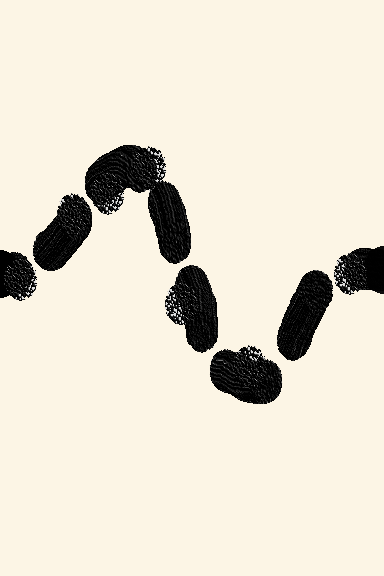
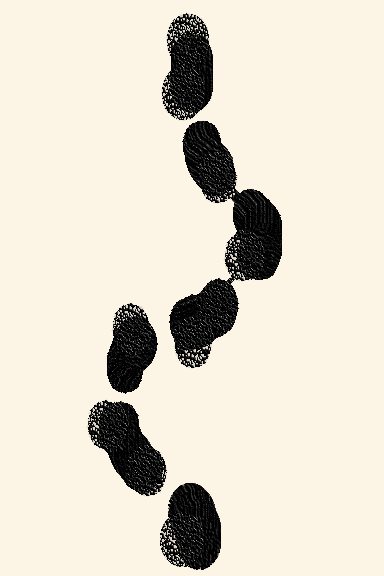
change xp/proj aesthetic

Changed region(s): [[0.0, 0.0, 1.0, 0.7188], [0.2188, 0.5312, 0.5938, 1.0]]

diff --git a/index.html b/index.html
@@ -125,8 +125,6 @@
       </table>
     </div>
 
-    <div class="small-buffer-zone"></div>
-
     <div class="projects-splash" id="projects">
       <div class="left-column">
         <div class="section-header">
@@ -141,10 +139,21 @@
       <div class="item-carousel">
         <div class="item-wrapper-1" onclick="window.open('https://devpost.com/software/cask','mywindow');">
           <div class="item-1">
-            <img class="item-cover" src="https://upload.wikimedia.org/wikipedia/commons/thumb/4/49/A_black_image.jpg/640px-A_black_image.jpg"></img>
+            <!-- <img class="item-cover" src="https://upload.wikimedia.org/wikipedia/commons/thumb/4/49/A_black_image.jpg/640px-A_black_image.jpg"></img> -->
             <div class="item-text">
               <h3 class="item-title">Cask</h3>
-              <p class="item-descr">Cask is an Marketplace for Creatives that mints social media posts as NFTs. It won Best Design at the 2022 Cornell Fintech Club Hackathon.</p>
+              <p class="item-descr">Cask is a Marketplace for Creatives that lets you monetize your content by automatically minting your digital presence as NFTs. <br>
+                <table>
+                  <tr>
+                    <td class="award-label"><b>Awards: </b></td>
+                    <td>Best Design</td>
+                  </tr>
+                  <tr>
+                    <td class="award-label">&nbsp;</td>
+                    <td>@ Cornell Fintech 2022</td>
+                  </tr>
+                </table> 
+              </p>
             </div>
             <div class="item-tech">
               <span>Figma</span>
@@ -153,27 +162,38 @@
         </div>
         <div class="item-wrapper-1">
           <div class="item-1" onclick="window.open('https://modulusedu.com/','mywindow');">
-            <img class="item-cover" src="https://htmlcolorcodes.com/assets/images/colors/navy-blue-color-solid-background-1920x1080.png"></img>
+            <!-- <img class="item-cover" src="https://htmlcolorcodes.com/assets/images/colors/navy-blue-color-solid-background-1920x1080.png"></img> -->
             <div class="item-text">
               <h3 class="item-title">Modulus</h3>
-              <p class="item-descr">Modulus is a peer-to-peer LMS built for nonprofits and tutors. It won Best Educational Impact at the Teens Take on COVID Hackathon in 2020.</p>
+              <p class="item-descr">Modulus is a peer-to-peer e-learning platform built for remote nonprofits and tutors in non-traditional classroom settings. 
+                <table>
+                  <tr>
+                    <td class="award-label"><b>Awards: </b></td>
+                    <td>Best Educational Impact</td>
+                  </tr>
+                  <tr>
+                    <td class="award-label">&nbsp;</td>
+                    <td>@ Teens Take on COVID</td>
+                  </tr>
+                </table> 
+              </p>
             </div>
             <div class="item-tech">
               <span>React.js</span><span>Firebase</span>
             </div>
           </div>
         </div>
-        <div class="item-wrapper-1"><div class="item-2" style="visibility: hidden;"></div></div>
-        <div class="item-wrapper-1"><div class="item-2" style="visibility: hidden;"></div></div>
       </div>
+      <div class="small-buffer-zone"></div>
     </div>
 
-    <div class="large-buffer-zone"></div>
+    
 
-    <div class="experience-splash" id="experience">
+    <div class="experience-splash">
+      <div class="small-buffer-zone"></div>
       <div class="left-column">
-        <div class="section-header">
-          <h1 class="projects-header">Experience</h1>
+        <div class="section-header" id="experience">
+          <h1 class="experience-header">Experience</h1>
           <div class="animatron-jail">
             <div class="animatron-2">
               <img width="100px" src="chineseship.png" />
@@ -182,43 +202,67 @@
         </div>
       </div>
       <div class="item-carousel">
-        <div class="item-wrapper-2">
-          <div class="item-2">
-            <img class="item-cover" src=" https://t4.ftcdn.net/jpg/03/29/19/15/360_F_329191596_tRQiV7LZjTZtuPM09QyOS09HV1D9VimE.jpg"></img>
+        <div class="item-wrapper-1">
+          <div class="item-1">
+            <!-- <img class="item-cover" src=" https://t4.ftcdn.net/jpg/03/29/19/15/360_F_329191596_tRQiV7LZjTZtuPM09QyOS09HV1D9VimE.jpg"></img> -->
             <div class="item-text">
               <h3 class="item-title">WaveLab Global</h3>
-              <p class="item-descr"><b>Summer Intern</b><br><i>June 2019 - August 2019</i><br><br>Developed program to recover misconfigured network devices.</p>
+              <p class="item-descr"><b>Summer Intern</b><br><i>June 2019 - August 2019</i><br><br>
+                Led development of a graphical Java program to recover misconfigured Ubuntu devices on a network using a custom UDP broadcast schema.</p>
             </div>
             <div class="item-tech">
               <span>Java</span><span>TCP/IP</span>
             </div>
           </div>
         </div>
-        <div class="item-wrapper-2">
-          <div class="item-2">
-            <img class="item-cover" src="https://wallpaperaccess.com/full/1092732.jpg"></img>
+        <div class="item-wrapper-1">
+          <div class="item-1">
+            <!-- <img class="item-cover" src="https://wallpaperaccess.com/full/1092732.jpg"></img> -->
             <div class="item-text">
               <h3 class="item-title">Tecmend</h3>
-              <p class="item-descr"><b>Part-Time Software Engineer</b><br><i>March 2021 - September 2021</i><br><br>Created full-stack integrations for various corporate clients.</p>
+              <p class="item-descr"><b>Part-Time Software Engineer</b><br><i>March 2021 - September 2021</i><br><br>
+                Worked primarily in front-end development to build custom integration solutions for corporate clients involving APIs for HubSpot, WordPress, Intuit Quickbooks.
             </div>
             <div class="item-tech">
               <span>React</span><span>SQL</span><span>APIs</span>
             </div>
           </div>
         </div>
-        <div class="item-wrapper-2">
-          <div class="item-2">
-            <img class="item-cover" src="https://kovifabrics.com/img/products/VI-CORIS7291.JPG"></img>
+        <div class="item-wrapper-1">
+          <div class="item-1">
+            <!-- <img class="item-cover" src="https://kovifabrics.com/img/products/VI-CORIS7291.JPG"></img> -->
             <div class="item-text">
               <h3 class="item-title">Cornell DTI</h3>
-              <p class="item-descr"><b>Developer</b>   <i>2021 - 2022</i><br><b>Technical PM</b> <i>2022 - 2023</i><br><br>Led development of ClubView, a student organization platform.</p>
+              <p class="item-descr">
+                <table>
+                  <tr>
+                    <td label="position-label">
+                      <b>2021 - 2022</b>
+                    </td>
+                    <td>&nbsp;</td>
+                    <td>
+                      <i>Developer</i>
+                    </td>
+                  </tr>
+                  <tr>
+                    <td label="position-label">
+                      <b>2022 - 2023</b>
+                    </td>
+                    <td>&nbsp;</td>
+                    <td>
+                      <i>Technical PM</i>
+                    </td>
+                  </tr>
+                </table>
+                <br>In an agile sprint-based team environment, built large portions of the interface of ClubView, a platform for on-campus organizations to advertise to potential new members.
+              </p>
             </div>
             <div class="item-tech">
               <span>React.js</span><span>Firebase</span>
             </div>
           </div>
         </div>
-        <div class="item-wrapper-2"><div class="item-2" style="visibility: hidden;"></div></div>
+        
       </div>
     </div>
 

diff --git a/styles.css b/styles.css
@@ -120,22 +120,30 @@ nav a:hover {
 }
 
 .about-splash p {
-  font-family: "Times New Roman", Times, serif;
+  font-family: EB Garamond;
   font-size: 16pt;
   max-width: 54vw;
   margin-top: 36pt;
 }
 
 .about-splash table {
-  font-family: "Times New Roman", Times, serif;
+  font-family: EB Garamond;
   font-size: 16pt;
   margin: 36pt 0 42pt 0;
   border-left: 32pt solid rgba(252, 245, 229, 0);
 }
 
-.about-splash table td.label {
+td.label {
   min-width: 128pt;
   font-weight: bolder;
+}
+
+td.award-label {
+  min-width: 42pt;
+}
+
+td.position-label {
+  min-width: 64pt;
 }
 
 .chinese-name {
@@ -153,6 +161,8 @@ img.page-separator {
 a.dragon-button {
   font-size: 24pt;
   color: rgb(252, 245, 229);
+  text-decoration: none;
+  font-weight: 800;
 }
 
 a.dragon-button:hover {
@@ -165,6 +175,13 @@ a.dragon-button:hover {
 .projects-splash {
   height: 100vh;
   background-color: rgb(252, 245, 229);
+  padding-top: 64pt;
+}
+
+.experience-splash {
+  margin-top: -36pt;
+  height: 106vh;
+  background-color: black;
 }
 
 table.button-row {
@@ -182,6 +199,12 @@ table.button-row td {
 
 h1.projects-header {
   margin-top: 32pt;
+}
+
+h1.experience-header {
+  margin-top: 42pt;
+  /* color: rgb(252, 245, 229); */
+  color: white;
 }
 
 /* animation */
@@ -234,44 +257,68 @@ h1.projects-header {
   padding: 36pt;
 }
 
-.item-carousel {
-  display: flex;
-  flex-direction: row;
-  flex-wrap: nowrap;
-}
-
 /* X shape: https://www.onlygfx.com/wp-content/uploads/2018/07/8-grunge-x-brush-stroke-5.png */
 /* single brush: https://www.onlygfx.com/wp-content/uploads/2019/05/100-grunge-brush-strokes-39.png */
 /* circle: https://i.pinimg.com/originals/31/7f/52/317f52ff8083eaaca4bf31f671b7ffa0.png */
 .item-wrapper-1 {
-  background-image: url(https://i.pinimg.com/originals/31/7f/52/317f52ff8083eaaca4bf31f671b7ffa0.png);
-  background-size: contain;
+  padding: 32pt 24pt 32pt 24pt;
+}
+
+.item-wrapper-1:hover {
+  background-image: url(https://images.squarespace-cdn.com/content/v1/5b0324ea5b409b4a9180e326/1540643604649-LH21DNMH5GQSMQY2L8JE/mamaheaven+page+break+bottom.png);
+  background-size: 142pt;
   background-repeat: no-repeat;
-  background-position: center;
-  padding: 32pt;
+  background-position: bottom;
 }
 
 .item-wrapper-2 {
-  background-image: url(https://www.onlygfx.com/wp-content/uploads/2017/06/dry-brush-stroke-2-1024x384.png);
+  /* background-image: url(https://www.onlygfx.com/wp-content/uploads/2017/06/dry-brush-stroke-2-1024x384.png); */
   background-size: 500pt;
   background-repeat: no-repeat;
   background-position: center;
   padding: 32pt;
 }
 
+.item-carousel {
+  display: flex;
+  flex-direction: row;
+  flex-wrap: nowrap;
+}
+
 .item-1 {
+  display: flex;
+  flex-direction: column;
+  flex: 1;
+
   width: 200pt;
   height: 240pt;
-  background-color: rgba(255, 255, 255, 0.96);
-  box-shadow: 5px 5px 10px rgba(17, 17, 17, 0.24);
+  background-color: #fff;
+  /* box-shadow: 5px 5px 10px rgba(17, 17, 17, 0.24); */
   transition: 0.24s;
-  font-family: "Segoe UI", Tahoma, Geneva, Verdana, sans-serif;
+  font-family: EB Garamond;
+
+  box-shadow:
+    /* The top layer shadow */ 0 -1px 1px rgba(0, 0, 0, 0.15),
+    /* The second layer */ 0 -10px 0 -5px #fff,
+    /* The second layer shadow */ 0 -10px 1px -4px rgba(0, 0, 0, 0.15),
+    /* The third layer */ 0 -20px 0 -10px #fff,
+    /* The third layer shadow */ 0 -20px 1px -9px rgba(0, 0, 0, 0.15);
+  /* Padding for demo purposes */
+  padding: 12pt;
 }
 
 .item-1:hover {
-  box-shadow: 5px 5px 10px rgba(17, 17, 17, 0.48);
   transition: 0.24s;
-  margin: -5px 0 0 -5px;
+  margin: -5px 0 0 0;
+
+  box-shadow:
+    /* The top layer shadow */ 0 -1px 1px rgba(0, 0, 0, 0.15),
+    /* The second layer */ 0 -15px 0 -5px #fff,
+    /* The second layer shadow */ 0 -15px 1px -4px rgba(0, 0, 0, 0.15),
+    /* The third layer */ 0 -30px 0 -10px #fff,
+    /* The third layer shadow */ 0 -30px 1px -9px rgba(0, 0, 0, 0.15);
+  /* Padding for demo purposes */
+
   cursor: pointer;
 }
 
@@ -299,11 +346,15 @@ h1.projects-header {
 
 .item-title {
   margin: 0;
+  font-family: EB Garamond;
+  font-size: 18pt;
 }
 
 .item-tech {
   display: flex;
   flex-direction: row-reverse;
+  align-self: flex-end;
+  margin-top: auto;
 }
 
 .item-tech span {
